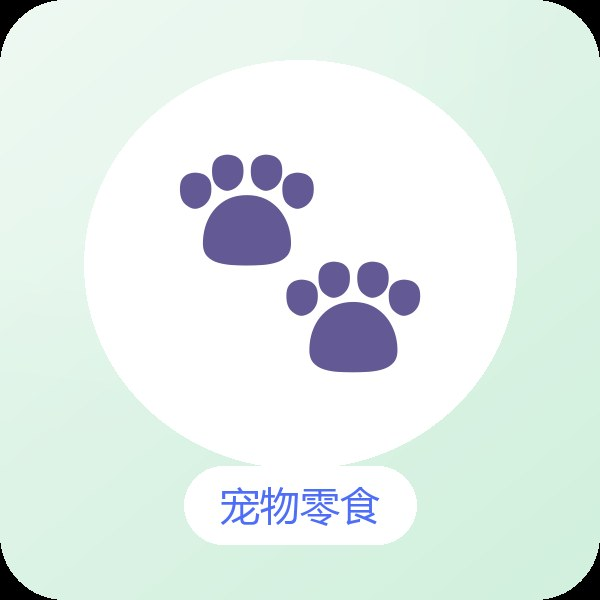
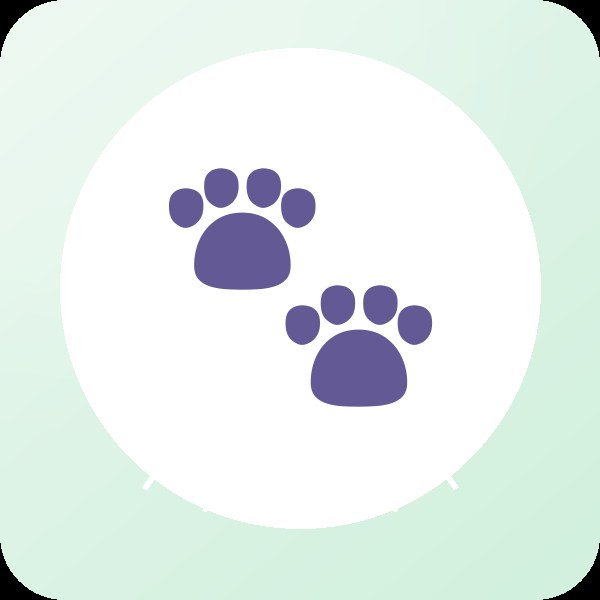
A14 修复: 搜索相关性(喂食器召回零食/罐头) + 商品图去文字
根因三重叠加(实测证据):
1. multi_match 写死 operator:or + pet_text 用 standard 分词器(中文逐字切分)
   → 搜「喂食器」等价 喂 OR 食 OR 器, 凡含「食」的商品全被召回
   (对照: MySQL 路径 title/subtitle LIKE '%喂食器%' 只命中 1 条, 说明是 ES 跑偏)
2. 默认排序只有 salesCount desc, ES 显式 sort 后不再按相关性排
   → 唯一精确命中「霍曼 自动喂食器」(销量最低)被挤到最后一名
3. 商品占位图带品类文字且按 id 映射(与真实商品不一一对应) → 图文不符放大观感

修复 EsSearchEngine:
- 召回分七档加权: 标题整串短语6.0 / 标题分词全命中3.0 / 副标题短语2.0
  / 描述短语1.0 / 跨字段AND2.0 / 拼音1.5 / 逐字兜底0.1; 同义词变体权重减半
- 新增 searchStrictThenLoose: 严格召回为零才放宽兜底(两段式)
- 默认排序 _score desc → salesCount desc → refId desc
  (无关键词时 _score 相同→退化为销量降序; 显式 sort 仍尊重用户选择)
- 校正类注释(索引侧并没有 synonym filter)

商品图: make_product 去掉品类文字, 纯图形+柔光白圆+装饰弧 (352.7KB/17.2%)

实测(重建容器后经网关):
- 喂食器: 4条(精确项垫底) → 1条精确命中
- 零食 4→2 / 猫粮 15→4 全部相关 / 冻干 3条
- 猫窝(严格0命中) → 11条相关建议(兜底生效)
- 无关键词销量降序、sort=price_asc 生效 (无回归)
- 改动只在查询构造, 索引无需重建

diff --git a/duoduo-product/src/main/java/com/duoduo/product/support/search/EsSearchEngine.java b/duoduo-product/src/main/java/com/duoduo/product/support/search/EsSearchEngine.java
@@ -29,8 +29,10 @@ import java.util.Map;
  *
  * <p>筛选条件的<strong>全量平移</strong>（与 MySQL 版逐一对应）是硬要求：
  * 两套实现只允许差「谁先跑」，不允许差「谁能查出来」——否则开 ES 和关 ES
- * 看到两个商品世界，比慢更难排查。中文用 pet_text 分析器（standard 分词 + 内置同义词，
- * 验收①），纯 ASCII / 中文查询词额外拼一路 pinyin 字段匹配（验收①拼音容错）。
+ * 看到两个商品世界，比慢更难排查。中文用 pet_text 分析器（standard 分词 → 中文逐字切分；
+ * 同义词在**应用侧**替换，索引侧不挂 synonym filter，见 {@link SearchSynonyms}），
+ * 纯 ASCII / 中文查询词额外拼一路 pinyin 字段匹配（验收①拼音容错）。
+ * 召回与排序共同保证「精确命中排最前」，见 {@link #buildKeywordShould} 与 {@link #applyProductSort}。
  */
 @Component
 @ConditionalOnProperty(name = "duoduo.search.enabled", havingValue = "true")
@@ -77,8 +79,8 @@ public class EsSearchEngine {
         if (q.inStockOnly()) {
             filters.add(term("inStock", true));
         }
-        return run(buildRequest(filters, buildKeywordShould(q.keyword()),
-                (pageNo - 1) * pageSize, pageSize, applyProductSort(q.sort())));
+        return searchStrictThenLoose(filters, q.keyword(),
+                (pageNo - 1) * pageSize, pageSize, applyProductSort(q.sort()));
     }
 
     /** 闲置检索（筛选平移自 ListingService.search 的 MySQL 实现，可见性同 visibleWrapper） */
@@ -102,42 +104,116 @@ public class EsSearchEngine {
         if (q.maxPrice() != null) {
             filters.add(range("maxPrice", null, q.maxPrice()));
         }
-        return run(buildRequest(filters, buildKeywordShould(q.keyword()),
-                (pageNo - 1) * pageSize, pageSize, applyListingSort(q.sort())));
+        return searchStrictThenLoose(filters, q.keyword(),
+                (pageNo - 1) * pageSize, pageSize, applyListingSort(q.sort()));
     }
 
     /**
-     * 关键词召回：
-     * <ol>
-     *   <li><b>原文</b>走 pet_text（standard 分词 + 索引侧同义词）；</li>
-     *   <li><b>同义词变体</b>（应用侧扩展，见 {@link SearchSynonyms}）—— 逐字分词下
-     *       索引侧 synonym filter 覆盖不到多字词，只能在这里补；</li>
-     *   <li><b>拼音</b>：中文转拼音、纯 ASCII 直通，走 ngram 字段；
-     *       两侧都 ngram 切分，长拼音串才能命中（见 {@code SearchIndexer.ensureIndex}）。</li>
-     * </ol>
+     * 两段式检索：**先严格召回；只有严格召回一条都没有时，才放宽到逐字兜底**。
+     *
+     * <p>为什么不是「一次查询里把兜底也带上、靠 boost 排后面」：那样第一屏仍会混进
+     * 噪音（搜「喂食器」会带回含「食」的零食/罐头）。用户对搜索的第一判断就是第一屏，
+     * 宁可给它 1 条精确结果、也不要 4 条里只对 1 条。
+     *
+     * <p>代价是零结果时多一次往返 —— 只在「严格命中 0 条」这个低频分支发生，
+     * 换来的是「零结果 → 给相关推荐」的兜底体验（否则用户什么都搜不到）。
      */
-    private List<Object> buildKeywordShould(String keyword) {
+    private EsHits searchStrictThenLoose(List<Object> filters, String keyword, int from, int size,
+                                         List<SortOptions> sorts) throws Exception {
+        EsHits strict = run(buildRequest(filters, buildKeywordShould(keyword, false), from, size, sorts));
+        if (strict.total() > 0 || !StringUtils.hasText(keyword)) {
+            return strict;
+        }
+        return run(buildRequest(filters, buildKeywordShould(keyword, true), from, size, sorts));
+    }
+
+    /**
+     * 关键词召回：**分层加权，精确优先**（修复「搜『喂食器』出零食/罐头」）。
+     *
+     * <p>为什么必须分层：{@code pet_text} 用 standard 分词器，中文是**逐字切分**
+     * （「喂食器」→ 喂／食／器）。若直接对三个字做 {@code operator: or} 召回，
+     * 任何含「食」的商品（零食、主食罐…）都会进来 —— 这正是线上看到的现象。
+     * 因此按「匹配强度」分五档，各自给权重，由 ES 求和打分决定顺序：
+     *
+     * <ol>
+     *   <li><b>标题整串短语</b>（boost 6）：{@code match_phrase} 要求「喂 食 器」相邻出现，
+     *       语义等价 MySQL 的 {@code title LIKE '%喂食器%'} —— 最强信号；</li>
+     *   <li><b>标题分词全命中</b>（boost 3）：三个字都在标题里（可能不相邻）；</li>
+     *   <li><b>副标题/描述整串短语</b>（boost 2 / 1）：等价 MySQL 的 subtitle LIKE，
+     *       描述命中是 A10 有意的额外召回（弱信号，分数低）；</li>
+     *   <li><b>跨字段分词全命中</b>（boost 2）+ <b>拼音</b>（boost 1.5，走 titlePinyin ngram 字段）；</li>
+     *   <li><b>逐字宽松兜底</b>（boost 0.1）：**只在严格召回为零时启用**
+     *       （见 {@link #searchStrictThenLoose}），保证「搜不到」不比「搜不准」更糟。</li>
+     * </ol>
+     *
+     * <p>同义词变体（{@link SearchSynonyms}）复用同一套分层，但权重减半 ——
+     * 变体是「猜用户可能想搜的词」，可信度低于原文。
+     *
+     * <p>权重只有在<b>默认排序含 {@code _score}</b> 时才有意义，见 {@link #applyProductSort}。
+     */
+    private List<Object> buildKeywordShould(String keyword, boolean includeLoose) {
         List<Object> should = new ArrayList<>();
         if (!StringUtils.hasText(keyword)) {
             return should;
         }
         String kw = keyword.trim();
-        addKeywordBranch(should, kw);
+        addKeywordBranch(should, kw, 1.0, includeLoose);
         for (String variant : synonyms.variants(kw)) {
-            addKeywordBranch(should, variant);
+            addKeywordBranch(should, variant, 0.5, includeLoose);   // 变体权重减半
         }
         return should;
     }
 
-    /** 单个查询串的召回分支：文本路 + 拼音路 */
-    private static void addKeywordBranch(List<Object> should, String text) {
-        should.add(Map.of("multi_match", Map.of("query", text,
-                "fields", List.of("title", "subtitle", "description"), "operator", "or")));
+    /** 单个查询串的召回分支：按「匹配强度」分档加权（weight 为整体缩放系数） */
+    private static void addKeywordBranch(List<Object> should, String text, double weight, boolean includeLoose) {
+        // ① 标题整串短语（最强）：等价 MySQL 的 title LIKE '%text%'
+        should.add(phrase("title", text, 6.0 * weight));
+        // ② 标题分词全命中：喂 AND 食 AND 器 都在标题里
+        should.add(multiMatch(text, List.of("title"), "and", 3.0 * weight));
+        // ③ 副标题整串短语（等价 MySQL 的 subtitle LIKE）
+        should.add(phrase("subtitle", text, 2.0 * weight));
+        // ④ 描述整串短语（A10 有意的额外召回，弱于标题/副标题）
+        should.add(phrase("description", text, 1.0 * weight));
+        // ⑤ 跨字段分词全命中
+        should.add(multiMatch(text, List.of("title", "subtitle", "description"), "and", 2.0 * weight));
+        // ⑥ 拼音路：中文转拼音、纯 ASCII 直通，两侧都 ngram 切分（见 SearchIndexer.ensureIndex）
         String py = SearchIndexer.pinyin(text);
         // 短于 2 字符的拼音切不出 gram（min_gram=2），该分支必然 0 命中，直接不生成
         if (py.length() >= 2) {
-            should.add(Map.of("match", Map.of("titlePinyin", Map.of("query", py, "operator", "and"))));
+            should.add(match("titlePinyin", py, "and", 1.5 * weight));
         }
+        // ⑦ 逐字宽松兜底：仅原文加（变体再加一层会把噪音放大两倍）。
+        //    由 searchStrictThenLoose 控制在「严格召回为零」时才启用，避免第一屏混入噪音。
+        if (includeLoose && weight >= 1.0) {
+            should.add(multiMatch(text, List.of("title", "subtitle", "description"), "or", 0.1));
+        }
+    }
+
+    private static Map<String, Object> phrase(String field, String text, double boost) {
+        return Map.of("match_phrase", Map.of(field, matchOptions(text, boost)));
+    }
+
+    private static Map<String, Object> match(String field, String text, String operator, double boost) {
+        Map<String, Object> opts = matchOptions(text, boost);
+        opts.put("operator", operator);
+        return Map.of("match", Map.of(field, opts));
+    }
+
+    private static Map<String, Object> multiMatch(String text, List<String> fields, String operator, double boost) {
+        Map<String, Object> opts = new LinkedHashMap<>();
+        opts.put("query", text);
+        opts.put("fields", fields);
+        opts.put("operator", operator);
+        opts.put("boost", boost);
+        return Map.of("multi_match", opts);
+    }
+
+    /** match / match_phrase 的公共选项（LinkedHashMap 以便继续追加 operator） */
+    private static Map<String, Object> matchOptions(String text, double boost) {
+        Map<String, Object> opts = new LinkedHashMap<>();
+        opts.put("query", text);
+        opts.put("boost", boost);
+        return opts;
     }
 
     private SearchRequest.Builder buildRequest(List<Object> filters, List<Object> should, int from, int size,
@@ -173,7 +249,21 @@ public class EsSearchEngine {
         return new EsHits(ids, total);
     }
 
-    /** 与 MySQL applySort 同语义（price 用 minPrice，default = 销量降序），末位恒加 refId 降序保证稳定分页 */
+    /**
+     * 排序：末位恒加 refId 降序保证稳定分页。
+     *
+     * <p><b>修复点</b>：默认排序（用户没指定 sort）改为
+     * {@code _score desc → salesCount desc → refId desc}。
+     * 之前只有 {@code salesCount desc}，而 ES 一旦显式 sort 就**不再按相关性排** ——
+     * 搜「喂食器」时唯一精确命中「霍曼 自动喂食器」（销量最低）会被挤到最后一名，
+     * 第一屏全是逐字召回的零食/罐头，用户看到的就是「结果与关键词不匹配」。
+     *
+     * <p>无关键词时（纯浏览）所有文档 {@code _score} 相同（filter-only 查询），
+     * 排序自动退化为销量降序 —— 与旧行为一致，不影响导航页。
+     *
+     * <p>用户显式指定 price/sales/newest/rating 时**尊重其选择**（不加 _score）：
+     * 召回已由分层权重收紧，不需要再靠排序纠偏。
+     */
     private List<SortOptions> applyProductSort(String sort) {
         String value = (sort == null || sort.isBlank()) ? "default" : sort.trim();
         List<Map<String, Object>> sorts = new ArrayList<>();
@@ -183,7 +273,10 @@ public class EsSearchEngine {
             case "sales" -> sorts.add(fieldSort("salesCount", "desc"));
             case "rating" -> sorts.add(fieldSort("rating", "desc"));
             case "newest" -> sorts.add(fieldSort("createdAt", "desc"));
-            default -> sorts.add(fieldSort("salesCount", "desc"));
+            default -> {
+                sorts.add(fieldSort("_score", "desc"));      // 相关性优先（关键词检索的默认直觉）
+                sorts.add(fieldSort("salesCount", "desc"));  // 同分再按销量
+            }
         }
         sorts.add(fieldSort("refId", "desc"));
         return toSortOptions(sorts);

diff --git a/scripts/gen-miniprogram-images.py b/scripts/gen-miniprogram-images.py
@@ -118,21 +118,24 @@ def linear_bg(size, c1, c2, radius=48):
     return out
 
 
-def make_product(path, glyph, label, palette):
+def make_product(path, glyph, _label, palette):
+    """商品占位图（600×600，1:1）。
+
+    刻意**不画任何文字**：早期版本在图上画了品类名（如「猫主粮」），
+    但图片是按商品 id 稳定映射的，与真实商品并非一一对应 ——
+    搜索结果里就出现过「猫罐头」配「领养关注」标签这种图文不符，
+    反而让人误以为「搜索结果与关键词不匹配」。只保留图形与配色，交给页面渲染真实商品名。
+    """
     S = 600
     img = linear_bg((S, S), palette[0], palette[1], radius=64)
-    # 中心圆形留白，让图形更聚焦
     d = ImageDraw.Draw(img)
-    d.ellipse((S * 0.14, S * 0.10, S * 0.86, S * 0.78), fill=(255, 255, 255, 46))
-    draw_glyph(img, glyph, int(S * 0.42), (S / 2, S * 0.44))
-    # 底部标签条：白底圆角 + 主色文字，统一商品图的“说明书”观感
-    f = cjk_font(40)
-    tw = d.textlength(label, font=f)
-    bar_w, bar_h = tw + 72, 78
-    bx, by = (S - bar_w) / 2, S - bar_h - 56
-    d.rounded_rectangle((bx, by, bx + bar_w, by + bar_h), radius=bar_h / 2,
-                        fill=(255, 255, 255, 235))
-    d.text((S / 2 - tw / 2, by + bar_h / 2 - 28), label, font=f, fill=BRAND)
+    # 中心柔光白圆 + 大图形 + 底部两道装饰弧（构图饱满但不抢戏）
+    d.ellipse((S * 0.10, S * 0.08, S * 0.90, S * 0.88), fill=(255, 255, 255, 52))
+    draw_glyph(img, glyph, int(S * 0.46), (S / 2, S * 0.48))
+    d.arc((S * 0.22, S * 0.70, S * 0.78, S * 1.04), start=200, end=340,
+          fill=(255, 255, 255, 120), width=6)
+    d.arc((S * 0.32, S * 0.78, S * 0.68, S * 1.02), start=205, end=335,
+          fill=(255, 255, 255, 90), width=5)
     img.convert('RGB').save(path, 'JPEG', quality=88, optimize=True)
     return os.path.getsize(path)
 

diff --git a/docs/PLAN.md b/docs/PLAN.md
@@ -1,6 +1,6 @@
 # 多多宠物商店 · 项目开发计划（看板）
 
-> 更新时间：2026-09-25（第二十三轮 · 微信一键登录「未绑定」闭环）——用户反馈微信一键登录报错：服务端日志显示 `jscode2session 成功`（微信侧换码正常）后紧跟 `code=BUSINESS_RULE 该微信未绑定账号`（422）——即 A13 刻意不做微信自动注册（微信授权拿不到手机号，自动注册会造出无手机号的孤儿账号）；**真缺陷是引导不闭环**：后端文案指向小程序里不存在的「账号与安全」入口，客户端只弹提示无可执行下一步。已补：`api.wechatBind()` + 登录页四情形闭环（已绑定→一键登录／未绑定+未登录→手机号登录后**自动绑定**／未绑定+已登录→一次点击直接绑定／属他人→409 提示），并把 422 文案改为两端都准确的说法。实测 6 步全通（含 mock 通道）：未绑定 422 → 绑定 200 → 再一键登录 **200 且同一 userId + 拿到令牌** → 幂等 200 → 抢占 409，临时账号已清理。上一轮第二十二轮完成分类栏统一 + 图片补齐 + 首页轮播）
+> 更新时间：2026-09-25（第二十四轮 · 搜索相关性修复）——用户反馈「搜『喂食器』结果不匹配」：**根因三重叠加**——①`EsSearchEngine` 的 `multi_match` 写死 `operator: or`，而 `pet_text` 用的是 standard 分词器（中文**逐字切分**），于是「喂食器」= `喂 OR 食 OR 器`，凡含「食」的商品全被召回；②默认排序只有 `salesCount desc`，**ES 一旦显式 sort 就不再按相关性排** —— 唯一精确命中「霍曼 自动喂食器」（销量最低）被挤到最后一名；③商品占位图上画了品类文字（按 id 映射，与真实商品不一一对应），「猫罐头」配「领养关注」进一步放大了「不匹配」观感。修复：召回改**分层加权**（标题整串短语 6.0 > 标题分词全命中 3.0 > 副标题短语 2.0 > 描述短语 1.0 > 跨字段 AND 2.0 > 拼音 1.5 > 逐字兜底 0.1）+ **两段式检索**（严格召回为零才放宽兜底）+ 默认排序加 `_score desc`；商品图去掉文字。实测：「喂食器」4 条（精确项垫底）→ **1 条精确命中**；「零食」4→2、「猫粮」15→4 全部相关；无关键词仍按销量降序、`sort=price_asc` 仍生效（无回归）。上一轮第二十三轮完成微信未绑定闭环）
 > 工程：`D:\智能体项目\duoduo-pet-mall-java`（Java 微服务正式版）
 > 运行方式：**Docker 优先**（中间件 + 业务服务全部容器化，已跑通）
 > 远端：https://github.com/1694798740/duoduo-pet-mall-java （私有）
@@ -195,6 +195,37 @@
 ---
 
 ## 6. 本轮变更记录
+
+### 2026-09-25（第二十四轮 · 搜索相关性修复：结果与关键词不匹配）
+
+> 用户反馈（附截图）：搜「喂食器」返回猫罐头/鸡肉条零食/冻干鸡肉粒/自动喂食器，**只有 1 条对且排最后**。
+
+#### 三处根因（均有实测证据）
+
+| # | 根因 | 证据 |
+|---|---|---|
+| 1 | `multi_match` 写死 **`operator: or`**，而 `pet_text` 用 standard 分词器（中文**逐字切分**）→ 「喂食器」= `喂 OR 食 OR 器`，含任一字的商品全召回 | 实测召回 4 条，3 条含「食」；对照 MySQL 路径 `title/subtitle LIKE %喂食器%` 只会命中 1 条 |
+| 2 | 默认排序只有 `salesCount desc`，**ES 显式 sort 后不再按相关性排** | 实测顺序 1008→1011→1009→1015，精确项「霍曼 自动喂食器」（销量 860 最低）垫底 |
+| 3 | 商品占位图上画了品类文字，且按 id 映射（与真实商品不一一对应） | 截图：猫罐头配「领养关注」、喂食器配「逗猫玩具」，放大「不匹配」观感 |
+
+#### 修复
+
+| 文件 | 改动 |
+|---|---|
+| `duoduo-product/…/search/EsSearchEngine.java` | ① 召回改**分层加权**：标题整串短语 6.0 / 标题分词全命中 3.0 / 副标题短语 2.0 / 描述短语 1.0 / 跨字段 AND 2.0 / 拼音 1.5 / **逐字兜底 0.1**；同义词变体权重减半；② 新增 `searchStrictThenLoose`：**严格召回为零才启用兜底**（两段式，宁可 1 条精确也不 4 条里对 1 条）；③ 默认排序 `_score desc → salesCount desc → refId desc`（无关键词时 `_score` 相同 → 退化为销量降序，不影响导航页；显式 sort 仍尊重用户选择）；④ 校正类注释（索引侧并没有 synonym filter） |
+| `scripts/gen-miniprogram-images.py` | 商品图去掉品类文字（纯图形 + 柔光白圆 + 装饰弧），消除图文不符；重生成后 **352.7 KB / 17.2%** |
+
+#### 自测（重建容器后经网关实测）
+
+| 关键词 | 修复前 | 修复后 |
+|---|---|---|
+| 喂食器 | 4 条（精确项排第 4） | **1 条：霍曼 自动喂食器 4L** |
+| 零食 | 4 条（混入喂食器/罐头） | 2 条（均为零食/猫零食） |
+| 猫粮 | 15 条（混入犬粮/喂食器/化毛膏） | **4 条全是猫粮** |
+| 猫窝（严格 0 命中） | — | 11 条相关建议（兜底生效，不空手） |
+| 无关键词 / `sort=price_asc` | 销量降序 / 生效 | **无回归** |
+
+`mvn -pl duoduo-product -am package` BUILD SUCCESS；小程序静态自检 0 错误 / 0 告警。**改动只在查询构造，索引无需重建。**
 
 ### 2026-09-25（第二十三轮 · 微信一键登录「未绑定」闭环 + 文案校正）
 

diff --git a/README.md b/README.md
@@ -4,7 +4,12 @@
 > 依据《多多宠物商店 · 产品需求原型 PRD v0.1》重做，替代此前的 Node/Express 原型实现。
 > 架构设计见 [`docs/ARCHITECTURE.md`](./docs/ARCHITECTURE.md)；开发看板见 [`docs/PLAN.md`](./docs/PLAN.md)。
 
-**最近更新：2026-09-25（第二十三轮）** — **微信一键登录「未绑定」闭环**。
+**最近更新：2026-09-25（第二十四轮）** — **搜索相关性修复（结果与关键词不匹配）**。
+三处根因叠加：① `multi_match` 写死 `operator: or` + `pet_text` 用 standard 分词器（中文**逐字切分**）→ 搜「喂食器」等价 `喂 OR 食 OR 器`，凡含「食」的商品全被召回；② 默认排序只有 `salesCount desc`，ES 显式 sort 后不再按相关性排 → 唯一精确命中被挤到最后；③ 商品占位图带品类文字、按 id 映射 → 图文不符放大观感。
+修复：召回改**分层加权**（标题整串短语 6.0 / 标题分词全命中 3.0 / 副标题 2.0 / 描述 1.0 / 跨字段 AND 2.0 / 拼音 1.5 / 逐字兜底 0.1）+ **两段式**（严格为零才放宽）+ 默认排序加 `_score desc`；商品图去文字。
+**实测**：「喂食器」4 条（精确项垫底）→ **1 条精确命中**；「零食」4→2、「猫粮」15→4 全部相关；「猫窝」零命中给相关建议；无关键词与 `sort=price_asc` 无回归。
+
+**第二十三轮（2026-09-25）** — **微信一键登录「未绑定」闭环**。
 用户反馈一键登录报错；服务端日志证明**微信侧换码成功**（`jscode2session 成功`），报错是紧随其后的 **422「该微信未绑定账号」** —— A13 刻意不做微信自动注册（避免无手机号孤儿账号），真缺陷是**引导不闭环**（文案指向小程序里不存在的入口）。已补：`api.wechatBind()` + 登录页四情形闭环（未绑定+未登录 → 手机号登录后**自动绑定当前微信**；未绑定+已登录 → 一次点击直接绑定；属他人 → 409 提示），并把后端 422 文案改为两端都准确。
 **自测**：未绑定 422 → 绑定 200 → **再一键登录 200 + 同一 userId + 拿到令牌** → 幂等 200 → 抢占 409；临时账号已清理。
 
